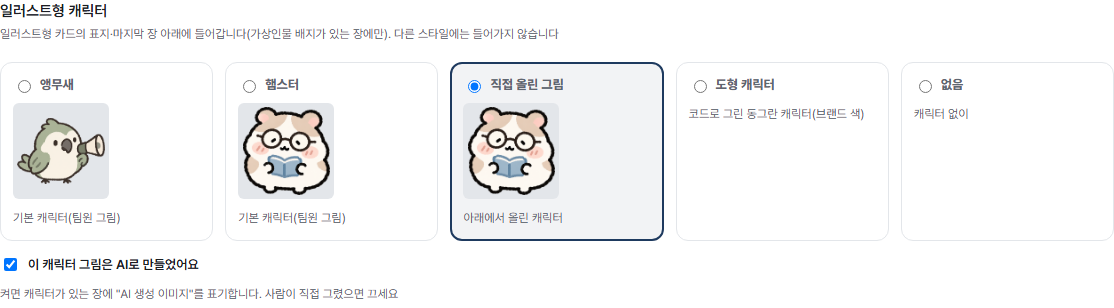
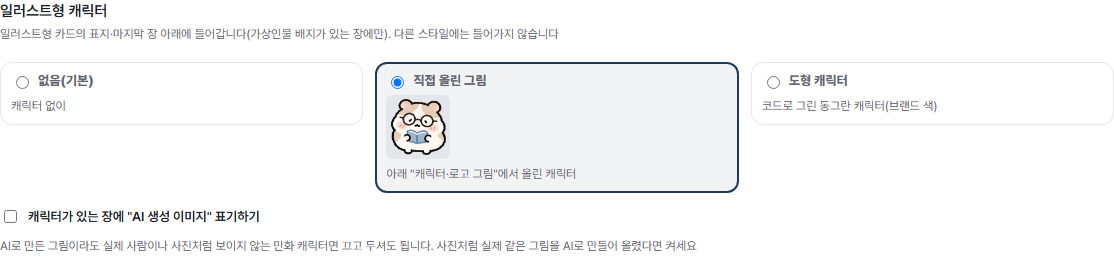
feat(render): drop bundled example characters, default to none
앵무새·햄스터는 예시였으므로 동봉하지 않고 기본은 캐릭터 없음으로 한다.
캐릭터는 설정에서 직접 올려 쓴다. 예전 설정의 parrot·hamster는 none으로 읽는다.
일러스트형 카드 캐릭터 상자 340px → 260px, 설정 화면 고르기 칸도 작게
(선웅제 결정, ADR 0046 갱신).

diff --git a/nsm/app/templates/settings.html b/nsm/app/templates/settings.html
@@ -63,13 +63,12 @@
     {% for k, label in characters.items() %}{% set name, desc = label.split(': ', 1) %}
       <label class="style-option">
         <span class="style-head"><input type="radio" name="card_character" value="{{ k }}" {% if v.card_character == k %}checked{% endif %}> <b>{{ name }}</b></span>
-        {% if k in ('parrot', 'hamster') %}<img class="char-thumb" src="/settings/character/{{ k }}.png" alt="{{ name }}" loading="lazy">
-        {% elif k == 'custom' and (has_image.character_cover or has_image.character_outro) %}<img class="char-thumb" src="/settings/brand-image/{{ 'character_cover' if has_image.character_cover else 'character_outro' }}.png" alt="올린 캐릭터" loading="lazy">{% endif %}
+        {% if k == 'custom' and (has_image.character_cover or has_image.character_outro) %}<img class="char-thumb" src="/settings/brand-image/{{ 'character_cover' if has_image.character_cover else 'character_outro' }}.png" alt="올린 캐릭터" loading="lazy">{% endif %}
         <span class="hint">{{ desc }}</span>
       </label>
     {% endfor %}
     </div>
-    <label class="check"><input type="checkbox" name="character_ai_made" {% if v.character_ai_made == 'on' %}checked{% endif %}> 캐릭터가 있는 장에 "AI 생성 이미지" 표기하기 <span class="hint">기본 캐릭터(AI로 만든 만화 그림)는 실제 사람이나 사진처럼 보이지 않아 표기하지 않습니다. 사진처럼 실제 같은 그림을 AI로 만들어 올렸다면 켜세요</span></label>
+    <label class="check"><input type="checkbox" name="character_ai_made" {% if v.character_ai_made == 'on' %}checked{% endif %}> 캐릭터가 있는 장에 "AI 생성 이미지" 표기하기 <span class="hint">AI로 만든 그림이라도 실제 사람이나 사진처럼 보이지 않는 만화 캐릭터면 끄고 두셔도 됩니다. 사진처럼 실제 같은 그림을 AI로 만들어 올렸다면 켜세요</span></label>
   </fieldset>
 </div>
 

diff --git a/nsm/app/static/app.css b/nsm/app/static/app.css
@@ -165,7 +165,10 @@ label.check .hint { flex-basis: 100%; color: var(--muted); }
 .style-thumb { width: 128px; height: 160px; border-radius: 6px; background: var(--line); object-fit: cover; box-shadow: var(--shadow); }
 .style-option .hint { color: var(--muted); }
 /* 캐릭터 고르기·그림 올리기(C17) */
-.character-options { grid-template-columns: repeat(5, minmax(0, 1fr)); }
+.character-options { grid-template-columns: repeat(3, minmax(0, 1fr)); align-items: start; }
+.character-options .style-option { padding: 8px 10px; gap: 4px; }
+.character-options .style-option:has(input:checked) { padding: 7px 9px; }
+.character-options .char-thumb { width: 64px; height: 64px; }
 .char-thumb { width: 96px; height: 96px; object-fit: contain; border-radius: 6px; background: var(--line); padding: 4px; }
 .character-picker .check { margin-top: 10px; }
 .brand-image-grid { display: grid; grid-template-columns: repeat(3, minmax(0, 1fr)); gap: 12px; }

diff --git a/nsm/templates/cards/illust.css b/nsm/templates/cards/illust.css
@@ -27,7 +27,7 @@
 .style-illust .deco .mascot { position: absolute; left: 70px; bottom: 90px; width: 300px; height: 330px; }
 .style-illust .deco .mascot-wave { left: auto; right: 80px; }
 /* 그림 캐릭터(C17): 비율을 지키며 상자 안에 넣고 바닥에 붙인다 */
-.style-illust .deco .mascot-img { width: 340px; height: 340px; object-fit: contain; object-position: center bottom; }
+.style-illust .deco .mascot-img { width: 260px; height: 260px; object-fit: contain; object-position: center bottom; }
 
 /* 본문 장 위 띠의 작은 캐릭터(얼굴만) */
 

diff --git a/tests/render/test_character.py b/tests/render/test_character.py
@@ -9,7 +9,7 @@ import pytest
 
 from nsm.config.schema import BrandSettings
 from nsm.domain.models import CardDeck
-from nsm.render.character import CHARACTERS_DIR, DRAWN, CharacterArt, character_art
+from nsm.render.character import DRAWN, CharacterArt, character_art
 from nsm.render.html_renderer import build_html
 
 FIXTURES = Path(__file__).resolve().parents[1] / "fixtures" / "decks"
@@ -27,35 +27,46 @@ def _slides(html: str) -> list[str]:
     return html.split('<section class="slide')[1:]
 
 
-def test_bundled_characters_exist_and_are_transparent() -> None:
-    from PIL import Image
+@pytest.fixture
+def art_png(tmp_path: Path) -> Path:
+    """올린 캐릭터처럼 투명 바탕 PNG 한 장."""
+    from PIL import Image, ImageDraw
 
-    for name in ("parrot.png", "hamster.png"):
-        img = Image.open(CHARACTERS_DIR / name)
-        assert img.mode == "RGBA"
-        assert img.getchannel("A").getextrema()[0] == 0  # 바탕이 지워져 있다
+    img = Image.new("RGBA", (300, 300), (0, 0, 0, 0))
+    ImageDraw.Draw(img).ellipse(
+        (40, 40, 260, 260), fill=(250, 240, 220, 255), outline=(30, 30, 30, 255), width=10
+    )
+    p = tmp_path / "character.png"
+    img.save(p)
+    return p
 
 
 def test_character_art_choices(tmp_path: Path) -> None:
-    assert character_art(_brand()).cover == CHARACTERS_DIR / "parrot.png"  # 기본은 앵무새
-    assert character_art(_brand(character="hamster")).outro == CHARACTERS_DIR / "hamster.png"
-    assert character_art(_brand(character="drawn")) == DRAWN
-    none = character_art(_brand(character="none"))
+    # C20: 동봉 캐릭터는 없다. 기본은 캐릭터 없음
+    none = character_art(_brand())
     assert none.cover is None and none.outro is None and not none.drawn
+    assert character_art(_brand(character="drawn")) == DRAWN
+    assert _brand(character="parrot").character == "none"  # 예전 설정 파일은 없음으로
+    assert _brand(character="hamster").character == "none"
     cover = tmp_path / "c.png"
     cover.write_bytes(b"x")
     custom = character_art(_brand(character="custom", character_cover=str(cover)))
     assert custom.cover == custom.outro == cover  # 마지막 장 그림이 없으면 표지 그림
     gone = character_art(_brand(character="custom", character_cover=str(tmp_path / "x.png")))
     assert gone == DRAWN  # 올린 파일이 사라지면 코드 캐릭터로
-    assert character_art(_brand(character_ai_made=False)).ai_made is False
-    # C19: 기본 캐릭터(AI로 만든 만화 그림)는 기본으로 "AI 생성 이미지"를 붙이지 않는다
-    assert character_art(_brand()).ai_made is False
-    assert character_art(_brand(character_ai_made=True)).ai_made is True
+    # C19: 기본은 "AI 생성 이미지"를 붙이지 않는다
+    assert character_art(_brand(character="custom", character_cover=str(cover))).ai_made is False
+    on = _brand(character="custom", character_cover=str(cover), character_ai_made=True)
+    assert character_art(on).ai_made is True
 
 
-def test_image_character_on_cover_and_outro_only() -> None:
-    p = CHARACTERS_DIR / "hamster.png"
+def test_no_character_by_default_in_cards() -> None:
+    html = build_html(_deck(), "illust", character_art(_brand()))
+    assert "mascot-img" not in html and '<svg class="mascot' not in html
+
+
+def test_image_character_on_cover_and_outro_only(art_png: Path) -> None:
+    p = art_png
     html = build_html(_deck(), "illust", CharacterArt(cover=p, outro=p, ai_made=True))
     slides = _slides(html)
     assert "mascot-img" in slides[0] and "mascot-img" in slides[-1]
@@ -69,8 +80,8 @@ def test_image_character_on_cover_and_outro_only() -> None:
     ]
 
 
-def test_hand_drawn_character_has_no_ai_caption() -> None:
-    p = CHARACTERS_DIR / "parrot.png"
+def test_hand_drawn_character_has_no_ai_caption(art_png: Path) -> None:
+    p = art_png
     html = build_html(_deck(), "illust", CharacterArt(cover=p, outro=p, ai_made=False))
     assert "mascot-img" in html and 'data-label="ai-generated"' not in html
 
@@ -85,8 +96,8 @@ def test_drawn_and_none(art: CharacterArt, img: bool, svg: bool) -> None:
 
 
 @pytest.mark.parametrize("style", ["clean", "photo"])
-def test_other_styles_ignore_character(style: str) -> None:
-    p = CHARACTERS_DIR / "parrot.png"
+def test_other_styles_ignore_character(style: str, art_png: Path) -> None:
+    p = art_png
     html = build_html(_deck(), style, CharacterArt(cover=p, outro=p, ai_made=True))
     assert "mascot-img" not in html and '<svg class="mascot' not in html
     assert 'data-label="ai-generated"' not in html

diff --git a/tests/app/test_brand_image_routes.py b/tests/app/test_brand_image_routes.py
@@ -46,15 +46,11 @@ def _cfg(e):
 
 def test_settings_shows_character_picker_and_upload(benv) -> None:
     html = benv["client"].get("/settings").text
-    assert 'name="card_character" value="parrot" checked' in html  # 기본은 앵무새
-    assert "/settings/character/hamster.png" in html
+    assert 'name="card_character" value="none" checked' in html  # 기본은 캐릭터 없음(C20)
+    assert "parrot" not in html and "hamster" not in html
     assert 'name="character_ai_made"' in html
     assert 'id="brand-images"' in html and "직접 만든 그림만 올리세요" in html
-    assert (
-        benv["client"].get("/settings/character/parrot.png").headers["content-type"] == "image/png"
-    )
-    assert benv["client"].get("/settings/character/../../x.png").status_code == 404
-    assert benv["client"].get("/settings/character/bogus.png").status_code == 404
+    assert benv["client"].get("/settings/character/parrot.png").status_code == 404  # 동봉 그림 없음
 
 
 def test_upload_section_hidden_without_folder(env) -> None:  # noqa: F811
@@ -81,7 +77,7 @@ def test_upload_character_switches_to_custom_and_clears_background(benv) -> None
     assert not Path(old).exists() and Path(_cfg(benv).brand.character_cover).exists()
 
 
-def test_delete_last_custom_image_goes_back_to_parrot(benv) -> None:
+def test_delete_last_custom_image_goes_back_to_none(benv) -> None:
     from pathlib import Path
 
     _upload(benv, "character_cover", _drawing_png())
@@ -89,14 +85,14 @@ def test_delete_last_custom_image_goes_back_to_parrot(benv) -> None:
     r = _post(benv, "/settings/brand-image/delete", kind="character_cover")
     assert r.status_code == 303
     b = _cfg(benv).brand
-    assert b.character_cover is None and b.character == "parrot" and not Path(path).exists()
+    assert b.character_cover is None and b.character == "none" and not Path(path).exists()
     assert benv["client"].get("/settings/brand-image/character_cover.png").status_code == 404
 
 
 def test_logo_upload_keeps_character(benv) -> None:
     _upload(benv, "logo_path", _drawing_png(), clear=False)
     b = _cfg(benv).brand
-    assert b.logo_path and b.character == "parrot"
+    assert b.logo_path and b.character == "none"
     assert Image.open(b.logo_path).getchannel("A").getpixel((0, 0)) == 255  # 로고 바탕은 그대로
 
 
@@ -104,7 +100,7 @@ def test_bad_upload_shows_reason(benv) -> None:
     r = _upload(benv, "character_cover", b"not an image")
     assert "image_error=" in r.headers["location"]
     assert "PNG·JPEG·WebP" in benv["client"].get(r.headers["location"]).text
-    assert _cfg(benv).brand.character == "parrot"
+    assert _cfg(benv).brand.character == "none"
     bad = benv["client"].post(
         "/settings/brand-image",
         data={"csrf": benv["state"].csrf_token, "kind": "../x"},
@@ -128,11 +124,14 @@ def test_upload_needs_csrf(benv) -> None:
 def test_choose_character_and_ai_label_in_settings_form(benv) -> None:
     cfg = _cfg(benv)
     form = form_values(cfg)
-    form.update(card_character="hamster")
+    form.update(card_character="drawn", character_ai_made="on")
+    assert _post(benv, "/settings", **form).status_code == 303
+    assert _cfg(benv).brand.character_ai_made is True
+    form = form_values(_cfg(benv))
     form.pop("character_ai_made")  # 체크를 끈 상태
     assert _post(benv, "/settings", **form).status_code == 303
     b = _cfg(benv).brand
-    assert b.character == "hamster" and b.character_ai_made is False
+    assert b.character == "drawn" and b.character_ai_made is False
     assert _cfg(benv).persona.character == cfg.persona.character  # 인물상 칸과 섞이지 않는다
 
     form = form_values(_cfg(benv))
@@ -187,7 +186,7 @@ def test_illust_preview_url_changes_with_character(benv) -> None:
     benv["state"].renderer = SimpleNamespace(render_sample=lambda *a: None)  # 견본 칸이 보이게
     before = illust_src()
     form = form_values(_cfg(benv))
-    form.update(card_character="hamster")
+    form.update(card_character="drawn")
     _post(benv, "/settings", **form)
     after = illust_src()
     assert "&amp;c=" in after and before != after

diff --git a/nsm/render/character.py b/nsm/render/character.py
@@ -1,10 +1,9 @@
 """일러스트형 카드의 페르소나 캐릭터(배치 C17, ADR 0046).
 
 설정 `brand.character`가 무엇을 그릴지 정한다.
-- parrot·hamster: 팀원이 그린 기본 캐릭터(`nsm/templates/characters/`, 바탕을 지운 투명 PNG)
+- none(기본): 캐릭터 없음. 넣고 싶으면 설정 화면에서 그림을 올린다(C20: 동봉하던 예시 캐릭터는 뺐다)
 - custom: 사용자가 설정 화면에서 올린 그림(`brand.character_cover`, 마지막 장은 `brand.character_outro`, 없으면 표지 그림)
 - drawn: 코드로 그린 도형 캐릭터(S8의 SVG)
-- none: 캐릭터 없음
 
 캐릭터도 가상인물의 모습이라 배지가 있는 표지·마지막 장에만 둔다(ADR 0043). 카드 덱 JSON(동결 계약)은 바꾸지 않고,
 렌더러가 스타일처럼 설정에서 읽는다.
@@ -14,13 +13,8 @@ from __future__ import annotations
 
 import hashlib
 from dataclasses import dataclass
-from importlib import resources
 from pathlib import Path
 from typing import Any
-
-CHARACTERS_DIR = Path(str(resources.files("nsm.templates"))) / "characters"
-BUNDLED = {"parrot": "parrot.png", "hamster": "hamster.png"}
-CHOICES = ("parrot", "hamster", "custom", "drawn", "none")
 
 
 @dataclass(frozen=True)
@@ -57,18 +51,15 @@ def _existing(path: str | Path | None) -> Path | None:
 
 
 def character_art(brand: Any) -> CharacterArt:
-    """설정의 브랜드(BrandSettings) → 그릴 캐릭터. 올린 그림 파일이 사라졌으면 코드 캐릭터로."""
-    choice = getattr(brand, "character", "drawn")
+    """설정의 브랜드(BrandSettings) → 그릴 캐릭터. 올린 그림 파일이 사라졌으면 코드 캐릭터로(빈자리 대신)."""
+    choice = getattr(brand, "character", "none")
     ai_made = bool(getattr(brand, "character_ai_made", False))
-    if choice == "none":
-        return CharacterArt()
-    if choice in BUNDLED:
-        p = CHARACTERS_DIR / BUNDLED[choice]
-        return CharacterArt(cover=p, outro=p, ai_made=ai_made) if p.is_file() else DRAWN
+    if choice == "drawn":
+        return DRAWN
     if choice == "custom":
         cover = _existing(getattr(brand, "character_cover", None))
         outro = _existing(getattr(brand, "character_outro", None)) or cover
         if cover is None and outro is None:
             return DRAWN
         return CharacterArt(cover=cover or outro, outro=outro, ai_made=ai_made)
-    return DRAWN
+    return CharacterArt()  # none

diff --git a/nsm/config/schema.py b/nsm/config/schema.py
@@ -22,20 +22,26 @@ CardStyle = Literal["clean", "photo", "illust"]
 CARD_STYLES: tuple[str, ...] = get_args(CardStyle)
 
 
-# 일러스트형 카드 캐릭터(C17, ADR 0046): 기본 앵무새·햄스터, 직접 올린 그림, 코드로 그린 캐릭터, 없음
-CharacterChoice = Literal["parrot", "hamster", "custom", "drawn", "none"]
+# 일러스트형 카드 캐릭터(C17·C20, ADR 0046): 없음(기본), 직접 올린 그림, 코드로 그린 캐릭터
+CharacterChoice = Literal["none", "custom", "drawn"]
 
 
 class BrandSettings(Brand):
     """설정 파일의 brand. 도메인 Brand(동결)에 카드 모양 설정만 더한다. 덱 JSON 계약은 그대로다."""
 
     card_style: CardStyle = "clean"
-    character: CharacterChoice = "parrot"
+    character: CharacterChoice = "none"
     character_cover: str | None = None  # custom일 때 표지 그림(<NSM_HOME>/brand/에 저장한 투명 PNG)
     character_outro: str | None = None  # custom일 때 마지막 장 그림. 비우면 표지 그림
-    # 캐릭터가 있는 장에 "AI 생성 이미지" 표기(ADR 0046). 기본 캐릭터는 AI로 만든 만화 그림이지만 실제 사람·사진처럼
-    # 보이지 않아 표기하지 않는다(C19, 선웅제 결정). 실제처럼 보이는 그림을 올리면 켠다
+    # 캐릭터가 있는 장에 "AI 생성 이미지" 표기(ADR 0046). AI로 만든 그림이라도 실제 사람·사진처럼 보이지 않는
+    # 만화 캐릭터면 표기하지 않는다(C19, 선웅제 결정). 실제처럼 보이는 그림을 올리면 켠다
     character_ai_made: bool = False
+
+    @field_validator("character", mode="before")
+    @classmethod
+    def _old_bundled(cls, v: object) -> object:
+        # C17의 기본 캐릭터(앵무새·햄스터)는 C20에서 뺐다. 예전 설정 파일은 "없음"으로 읽는다
+        return "none" if v in ("parrot", "hamster") else v
 
 
 # 대시보드·마법사가 다시 저장할 때 지켜야 하는 카드 모양 설정

diff --git a/nsm/app/server.py b/nsm/app/server.py
@@ -322,15 +322,6 @@ def create_app(state: AppState) -> FastAPI:
             saved=bool(saved),
         )
 
-    @app.get("/settings/character/{name}.png")
-    def character_png(name: str) -> FileResponse:
-        """설정 화면 캐릭터 견본: 기본 캐릭터 그림(패키지 안 파일만)."""
-        from nsm.render.character import BUNDLED, CHARACTERS_DIR
-
-        if name not in BUNDLED:
-            raise HTTPException(404)
-        return FileResponse(CHARACTERS_DIR / BUNDLED[name], media_type="image/png")
-
     @app.get("/settings/brand-image/{kind}.png")
     def brand_image_png(kind: str) -> FileResponse:
         """올린 로고·캐릭터 그림 보기. 설정에 적힌 경로만 보낸다(경로를 요청으로 받지 않음)."""
@@ -396,7 +387,7 @@ def create_app(state: AppState) -> FastAPI:
         b = cfg.brand
         others = [k for k in ("character_cover", "character_outro") if k != kind and getattr(b, k)]
         if kind != "logo_path" and b.character == "custom" and not others:
-            update["character"] = "parrot"  # 올린 그림이 하나도 안 남으면 기본 캐릭터로
+            update["character"] = "none"  # 올린 그림이 하나도 안 남으면 캐릭터 없음으로
         state.set_config(cfg.model_copy(update={"brand": b.model_copy(update=update)}))
         if kind != "logo_path":  # 로고 파일은 이미 만든 원고가 쓰므로 남긴다
             drop_old(state.brand_dir, str(old) if old else None)

diff --git a/tests/unit/test_runtime_wiring.py b/tests/unit/test_runtime_wiring.py
@@ -52,10 +52,10 @@ def test_renderer_reads_card_style_from_current_config(
             )
             assert seen["style"]() == "photo"
             # 캐릭터도 렌더할 때마다 지금 설정에서 읽는다(C17)
-            assert seen["character"]().cover.name == "parrot.png"
+            assert seen["character"]().cover is None and not seen["character"]().drawn  # 기본 없음
             ctx.config = cfg.model_copy(
-                update={"brand": cfg.brand.model_copy(update={"character": "none"})}
+                update={"brand": cfg.brand.model_copy(update={"character": "drawn"})}
             )
-            assert seen["character"]().cover is None and not seen["character"]().drawn
+            assert seen["character"]().drawn
     finally:
         db.close()

diff --git a/nsm/app/settings_form.py b/nsm/app/settings_form.py
@@ -75,11 +75,9 @@ CARD_STYLE_NAMES = {
 
 # 일러스트형 캐릭터(C17, ADR 0046). 순서대로 화면에 보인다
 CHARACTER_NAMES = {
-    "parrot": "앵무새: 기본 캐릭터(팀원 그림)",
-    "hamster": "햄스터: 기본 캐릭터(팀원 그림)",
-    "custom": "직접 올린 그림: 아래에서 올린 캐릭터",
+    "none": "없음(기본): 캐릭터 없이",
+    "custom": '직접 올린 그림: 아래 "캐릭터·로고 그림"에서 올린 캐릭터',
     "drawn": "도형 캐릭터: 코드로 그린 동그란 캐릭터(브랜드 색)",
-    "none": "없음: 캐릭터 없이",
 }
 
 

diff --git a/docs/architecture.md b/docs/architecture.md
@@ -1,6 +1,6 @@
 # 현재 구현 아키텍처
 
-> 갱신: 2026-10-16 (C9: 인스타그램 요청 제한(429) 쉬기·댓글 확인 간격, ADR 0038. C10: 작업 요약을 사람이 읽는 문장으로. C11: 실행 기록은 작업 상태 표 + 변화가 있던 실행만, ADR 0040. C12: 안정화(계속 0건 알림, 데이터 백업, 실행 기록 정리, 스케줄러 종료 경합), ADR 0041. C13: 대시보드 간단·고급 모드, ADR 0042. C14: 카드 가상인물 배지는 표지·마지막 장에만, ADR 0043. C15: 키워드로 원고 만들기·수집 제외어, ADR 0044. C16: 올린 이미지를 읽어 자료로, ADR 0045. C17: 캐릭터·로고 그림, ADR 0046. C18: 댓글 답글이 원고에 쓴 자료까지 봄, ADR 0047. C19: 캐릭터 AI 표기 기본 끔). `v0.4-quality`(2026-10-15: S-β 계약 테스트, S-γ 품질 체크리스트·표지 썸네일 가독성, S8 카드 스타일 clean·photo·illust와 설정 화면 견본 선택까지 머지. 세 배치 모두 메인 담당(ADR 0034), 카드 스타일은 ADR 0036 채택, 원고별 스타일은 ADR 0037 제안으로 남음) · 약속은 [contracts.md](contracts.md), 이 문서는 "지금 실제로 어떻게 돌아가는가". 배치마다 맨 아래 구현 상태 표를 갱신한다.
+> 갱신: 2026-10-16 (C9: 인스타그램 요청 제한(429) 쉬기·댓글 확인 간격, ADR 0038. C10: 작업 요약을 사람이 읽는 문장으로. C11: 실행 기록은 작업 상태 표 + 변화가 있던 실행만, ADR 0040. C12: 안정화(계속 0건 알림, 데이터 백업, 실행 기록 정리, 스케줄러 종료 경합), ADR 0041. C13: 대시보드 간단·고급 모드, ADR 0042. C14: 카드 가상인물 배지는 표지·마지막 장에만, ADR 0043. C15: 키워드로 원고 만들기·수집 제외어, ADR 0044. C16: 올린 이미지를 읽어 자료로, ADR 0045. C17: 캐릭터·로고 그림, ADR 0046. C18: 댓글 답글이 원고에 쓴 자료까지 봄, ADR 0047. C19: 캐릭터 AI 표기 기본 끔. C20: 동봉 캐릭터 빼고 기본 "없음", 카드 캐릭터 260px). `v0.4-quality`(2026-10-15: S-β 계약 테스트, S-γ 품질 체크리스트·표지 썸네일 가독성, S8 카드 스타일 clean·photo·illust와 설정 화면 견본 선택까지 머지. 세 배치 모두 메인 담당(ADR 0034), 카드 스타일은 ADR 0036 채택, 원고별 스타일은 ADR 0037 제안으로 남음) · 약속은 [contracts.md](contracts.md), 이 문서는 "지금 실제로 어떻게 돌아가는가". 배치마다 맨 아래 구현 상태 표를 갱신한다.
 
 ## 1. 한 장 요약
 
@@ -101,7 +101,7 @@ erDiagram
 | `nsm/domain/labels.py` | 완료 | 단위 | A·B | 표기 문구. 배치 B에서 공정위 예규 원문으로 확정(ADR 0019) |
 | 대시보드 화면(`nsm/app/templates`, `static/app.css`, `ko.py`) | 완료 | 라우트(`tests/app`) + 화면 동작(`test_ui.py`) + 전후 스크린샷 | I | 오늘 할 일 중심 개요, 검토 상세 2단, 댓글 카드, 한국어 표시, Pretendard(`/fonts`), 브랜드 강조색, 휴대폰 폭(ADR 0025). 점검 도구 `scripts/dashboard_demo.py`·`dashboard_shots.py` |
 | `nsm/app/run_view.py` + 실행 기록(`/logs`) | 완료 | 단위·라우트(`tests/app/test_run_view.py`) + 화면 캡처 | C11 | 작업 상태 표(`job_statuses`, 저장소 `latest_runs`·`last_success_at`), 아무 일 없던 성공 숨김·같은 결과 묶음(`build_rows`), `?all=1` 전체 보기. 오늘 화면 최근 실행도 같은 규칙(ADR 0040) |
-| `nsm/render/character.py` + `nsm/app/brand_images.py` + 캐릭터·로고 그림 | 완료 | 렌더(`tests/render/test_character.py`) + 단위(`tests/unit/test_brand_images.py`) + 라우트(`tests/app/test_brand_image_routes.py`) + 브라우저 확인 | C17 | 설정 `brand.character`(parrot·hamster·custom·drawn·none) → `character_art()` → `CharacterArt`를 렌더러 옵션(`get_renderer(character=)`, 스타일처럼 렌더마다 설정에서 읽음)으로. 일러스트형 표지·마지막 장에 `<img class="mascot-img">`, `character_ai_made`(기본 끔, C19)면 그 장에 `ai-generated` 캡션. 렌더 캐시 지문에 그림 내용 포함(일러스트형만). 기본 캐릭터는 `nsm/templates/characters/`(팀원 그림, 바탕 지운 투명 PNG). 올리기 `POST /settings/brand-image`(Pillow로 테두리에서 이어진 바탕만 지우고 자르기, `<NSM_HOME>/brand/`) (ADR 0046) |
+| `nsm/render/character.py` + `nsm/app/brand_images.py` + 캐릭터·로고 그림 | 완료 | 렌더(`tests/render/test_character.py`) + 단위(`tests/unit/test_brand_images.py`) + 라우트(`tests/app/test_brand_image_routes.py`) + 브라우저 확인 | C17 | 설정 `brand.character`(none 기본·custom·drawn, C20) → `character_art()` → `CharacterArt`를 렌더러 옵션(`get_renderer(character=)`, 스타일처럼 렌더마다 설정에서 읽음)으로. 일러스트형 표지·마지막 장에 `<img class="mascot-img">`, `character_ai_made`(기본 끔, C19)면 그 장에 `ai-generated` 캡션. 렌더 캐시 지문에 그림 내용 포함(일러스트형만). 동봉 캐릭터 없음(C20에서 뺌). 올리기 `POST /settings/brand-image`(Pillow로 테두리에서 이어진 바탕만 지우고 자르기, `<NSM_HOME>/brand/`) (ADR 0046) |
 | `nsm/adapters/sources/image_reader.py` + 이미지 자료 | 완료 | 단위(`tests/unit/test_image_reader.py`) + 라우트(`tests/app/test_materials.py`) + 실제 Claude 호출 2회 + 브라우저 확인 | C16 | 올린 png·jpg·webp(5MB 이하, 앞부분으로 형식 확인)를 Claude(`models.classifier`)가 `{has_info, text}`로 옮김. 결과는 `<NSM_HOME>/upload-text/` 캐시(경로·크기·수정 시각)라 올릴 때 한 번만 읽고 자료 모으기는 캐시를 씀. `UploadSource(read_image=)`, `save_material(read_image=)`, `AppState.read_image`(키 없으면 None → 이미지 거절) (ADR 0045) |
 | `nsm/engine/keyword.py` + 키워드 원고(`/keyword-draft`) | 완료 | 엔진(`tests/engine/test_keyword.py`) + 라우트(`tests/app/test_keyword_draft.py`) + 브라우저 확인 | C15 | 키워드로 검색 소스(네이버·커뮤니티)만 바로 찾아 판정(키워드를 관심 주제로 더한 지시, 점수는 그 실행에서만 쓰고 DB에 남기지 않음) → 이번에 찾은 안 쓴 관련 자료 3건 → `_make_one`(평소 게시 규칙). 자료가 없으면 만들지 않음. 값 받는 잡 `ARG_JOBS`(`run_job(..., arg=)`, `JobScheduler.run_now(name, arg)`). 수집 제외어 `collect.exclude_words`: 수집 때 저장하지 않고 `_pick_material`에서도 뺌(ADR 0044) |
 | 화면 모드(`/ui-mode`, 설정 `ui_mode`) | 완료 | 라우트(`tests/app/test_ui_mode.py`) + 브라우저 확인·캡처(`docs/samples/ui/modes/`) | C13 | 간단(기본)·고급 스위치. 간단은 자료·실행 기록 메뉴, "오늘"의 세부 칸·최근 실행, 설정 세부 값을 숨기고(폼에는 남아 같이 저장) "오늘"에 자료 올리기를 둠. 기능·라우트는 같음(ADR 0042) |

diff --git a/docs/user-guide.md b/docs/user-guide.md
@@ -105,8 +105,8 @@ uv run nsm doctor
 | `protect_count` | `20` | 보호 모드: 사람이 승인해야 하는 첫 콘텐츠 수 |
 | `classifier` | `auto` | MotherDuck 토큰이 있으면 jev, 없으면 Claude로 분류 |
 | `image_generation` | `off` | AI 배경 이미지(유료). `off`: 만들지 않고 코드로 그린 배경만(사진은 검토 화면에서 직접 올림). `auto`: OpenAI 키가 있으면 만듦. `on`: 항상 만듦(키가 없으면 경고 후 코드 배경). `nsm init`에서 OpenAI 키를 새로 넣으면 켤지 물어봄 (ADR 0036) |
-| `brand.character` | `parrot` | 일러스트형 카드 표지·마지막 장 캐릭터(설정 화면 "일러스트형 캐릭터"). `parrot` 앵무새, `hamster` 햄스터, `custom` 직접 올린 그림(`brand.character_cover`·`brand.character_outro`), `drawn` 도형 캐릭터, `none` 없음 (ADR 0046) |
-| `brand.character_ai_made` | `false` | 캐릭터가 있는 장에 "AI 생성 이미지" 표기. 기본 캐릭터(AI로 만든 만화 그림)는 실제처럼 보이지 않아 표기하지 않음. 사진처럼 실제 같은 그림을 AI로 만들어 올렸다면 켜세요 (ADR 0046) |
+| `brand.character` | `none` | 일러스트형 카드 표지·마지막 장 캐릭터(설정 화면 "일러스트형 캐릭터"). `none` 없음(기본), `custom` 직접 올린 그림(`brand.character_cover`·`brand.character_outro`), `drawn` 도형 캐릭터 (ADR 0046) |
+| `brand.character_ai_made` | `false` | 캐릭터가 있는 장에 "AI 생성 이미지" 표기. AI로 만든 그림이라도 실제처럼 보이지 않는 만화 캐릭터면 표기하지 않음. 사진처럼 실제 같은 그림을 AI로 만들어 올렸다면 켜세요 (ADR 0046) |
 | `brand.card_style` | `clean` | 카드 디자인 스타일(설정 화면 "카드 스타일"). `clean` 깔끔, `photo` 사진형, `illust` 일러스트형. 아래 "카드 스타일" 참고 |
 | `enabled_platforms` | 인스타그램·스레드 | 게시할 플랫폼. 여기에 `naver_blog`가 없으면 블로그 원고를 만들지 않음(원고 1건당 Claude 출력 비용 절약) |
 | `browser_driver` | `aside` | 실계정 게시·댓글에 쓸 브라우저(Aside). 자료 수집은 이 값과 상관없이 별도 수집 전용 브라우저(Playwright)로 함. 2026-10-13 전에 만든 config.yaml에는 `playwright`가 저장돼 있으니 Aside를 쓰려면 직접 `aside`로 바꾸세요 |
@@ -159,15 +159,15 @@ uv run nsm render-preview tests/fixtures/decks/info.json --out preview-cards --s
 
 ### 캐릭터와 로고
 
-일러스트형 카드는 표지 왼쪽 아래와 마지막 장 오른쪽 아래에 페르소나 캐릭터가 들어갑니다. 가상인물 배지가 있는 장에만 들어가고, 중간 장에는 없습니다.
+일러스트형 카드는 표지 왼쪽 아래와 마지막 장 오른쪽 아래에 페르소나 캐릭터를 넣을 수 있습니다. 기본은 캐릭터 없음이고, 넣고 싶으면 그림을 올리세요. 가상인물 배지가 있는 장에만 들어가고, 중간 장에는 없습니다.
 
-- **고르기**: 설정 → 브랜드 → **일러스트형 캐릭터**에서 앵무새(기본), 햄스터, 직접 올린 그림, 도형 캐릭터, 없음 중에 고르고 저장하세요. 일러스트형 견본이 그 캐릭터로 바뀝니다.
+- **고르기**: 설정 → 브랜드 → **일러스트형 캐릭터**에서 없음(기본), 직접 올린 그림, 도형 캐릭터 중에 고르고 저장하세요. 일러스트형 견본이 그 캐릭터로 바뀝니다.
 - **직접 올리기**: 설정 맨 아래 **캐릭터·로고 그림**에서 표지 캐릭터, 마지막 장 캐릭터(비우면 표지 그림), 로고를 올립니다(PNG·JPEG·WebP, 10MB 이하).
   - 캐릭터는 흰 종이 같은 바탕을 자동으로 지우고 그림만 남깁니다. 윤곽선 안의 흰 부분은 남습니다. 바탕이 사진이거나 여러 색이면 덜 지워질 수 있으니, 그때는 "바탕 자동으로 지우기"를 끄고 투명 PNG를 올리세요.
-  - 캐릭터를 올리면 바로 "직접 올린 그림"으로 바뀝니다. 지우면 앵무새로 돌아갑니다.
+  - 캐릭터를 올리면 바로 "직접 올린 그림"으로 바뀝니다. 다 지우면 "없음"으로 돌아갑니다.
   - 로고는 세 스타일 모두 표지·마지막 장의 이름 앞에 작게 들어갑니다. 로고는 새로 만드는 원고부터 들어가고, 이미 만든 원고는 예전 로고 그대로입니다.
 - **직접 만든 그림만** 올리세요. 다른 회사·작가의 캐릭터(예: 치이카와, 산리오)를 올리면 그대로 카드에 실려 게시되어 저작권 문제가 생깁니다.
-- **AI 표기**: 기본은 꺼져 있습니다. 기본 캐릭터는 AI로 만든 만화 그림이지만 실제 사람이나 사진처럼 보이지 않아 표기하지 않습니다. 사진처럼 실제 같은 그림을 AI로 만들어 올렸다면 "캐릭터가 있는 장에 'AI 생성 이미지' 표기하기"를 켜세요. "가상인물" 배지는 이것과 상관없이 늘 붙습니다.
+- **AI 표기**: 기본은 꺼져 있습니다. AI로 만든 그림이라도 실제 사람이나 사진처럼 보이지 않는 만화 캐릭터면 꺼 두셔도 됩니다. 사진처럼 실제 같은 그림을 AI로 만들어 올렸다면 "캐릭터가 있는 장에 'AI 생성 이미지' 표기하기"를 켜세요. "가상인물" 배지는 이것과 상관없이 늘 붙습니다.
 - 저장하면 다시 켜지 않아도 다음에 그리는 카드부터 바뀌고, 게시 대기 중인 일러스트형 원고도 올릴 때 새 캐릭터로 다시 그립니다. 샘플은 `docs/samples/characters/`에 있습니다.
 
 | 스타일 | 모양 | 어울리는 글 |
